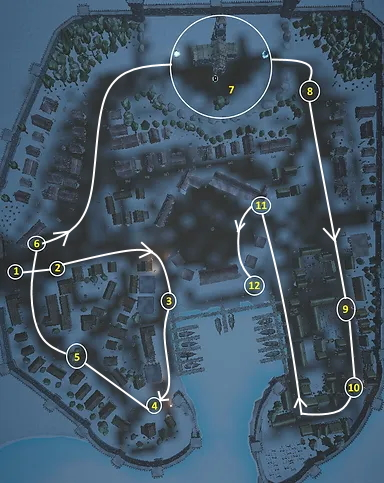
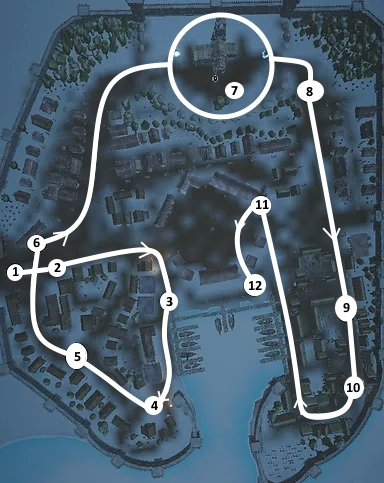
asd

diff --git a/P10.html b/P10.html
@@ -46,9 +46,9 @@
             <div> <h2 style="font-size: 30px;" > Requim of Ragnarock  </h2>  
                 <h3 style="font-size: 25px;"> A town exploration game, where you need to save trapped spirites and defeat Naglfar to save the world from Ragnarock </h3>  </br>
                 
-                <div style="font-size: 22px; ">
+                <div style="font-size: 21px; ">
                     I made this prototype for my master thesis, the goal was to analysis the players movement patterents through out the city and see if they have developed a good cognitive map over the level.<br> 
-                    Two towns was designed based on two ecological models: The sector model and the multiple nuclie model. Only the sector model will be shown. <br>
+                    Two towns was designed based on two ecological models: The sector model and the multiple nuclie model. Due to simplicity only the sector model will be shown. <br>
                 </br>
                     Requiem of Ragnarock is an exploration game that prioritizes seamless navigation and encourages players to build and explore their cognitive map. <br>
                     I worked on the Level, Quest Game design and the implementaion. <br> </br>
@@ -118,39 +118,39 @@
             </div>
             <div class="pillar-desc" style="width: 175%; min-height: fit-content; " > 
                 <h2 style="padding-left: 8%; font-size: 35px; padding-bottom: 5%;">Design pillers </h2>
-                As the main goal of this project was to analysis the players movement patterns. 
-                As the main goal of the project was to findout how people would solve problems in a game and in a linear vs open quest apporch. <br>
-                The player should not feel stress which could resolve in a high cognitive load from other than solving the problems. <br>
-                The problems can be weird allowing for a weird comment about the problem to the player, to gain a cheap grin from them, since their motivation to participate in the test is important, as it is within group test. 
+                The town is designed to prioritize seamless navigation and encourage players to build and explore their cognitive map of the town. <br>
+                By emphasizing the importance of accessible navigation, we aim to create an intuitive and enjoyable experience for players.
+                <br> The goal of the project is to explore the impact of different wayfinding techniques on the player's cognitive map of the town.
+                
             </div>
             <div class="fill-r"></div>
         </div>
 
         <div id="Level" class="game-content" style=" padding-bottom: 75px;">
             <div class="fill">  </div>
-            <div class="title" style="padding-top: 1.25%; padding-left: 20px;"><h1>Level Overview</h1> </div>
+            <div class="title" style="padding-top: 1.25%; padding-left: 20px;"><h1>Town Overview</h1> </div>
             <div class="fill-r">  </div>
 
             <div class="fill"> </div>
             <div class="imgContainer">
-                <img   src="http://wrongsizeglass.github.io/Img/tp/tp lvl1.jpg" style="width: 98%; height: 300px;  margin: 2px;" >
+                <img   src="http://wrongsizeglass.github.io/Img/rr/sector layout.webp" style="width: 98%; height: 300px;  margin: 2px;" >
             </div>
             <div class="imgContainer">
-                <img   src="http://wrongsizeglass.github.io/Img/tp/tp lvl2 top.jpg" style="width: 98%; height: 300px;margin: 2px; " >
+                <img   src="http://wrongsizeglass.github.io/Img/rr/Sector quest.jpg" style="width: 98%; height: 300px; margin: 2px; " >
             </div>
             <div class="imgContainer-r">
-                <img   src="http://wrongsizeglass.github.io/Img/tp/tp lvl3.jpg" style="width: 98%; height: 300px; margin: 2px; " >
+                <img src="http://wrongsizeglass.github.io/Img/rr/Sector Harbor.jpg" style="width: 98%; height: 150px; margin: 1px;" > 
+                <img src="http://wrongsizeglass.github.io/Img/rr/SectorChurch.jpg" style="width: 98%; height: 150px; margin: 1px;" > 
+               
             </div>
             <div class="fill-r"> </div>
 
             <div class="fill"> </div>
             <div class="text-left" style="padding: 10px;"> 
                 <section>
-                    The goal of this level was to teach the player how the movement and running jump mechanics worked, in order to complete this level. <br>
-                    The main obsticals in this level was the height of objects and spaces between the objects. <br>
-                    Player needed to collect all the doughnuts. <br> 
-                    Blue lines shows easy jumps, Orange lines shows harder jumps where running jump is needed.  <br>
-                    <h4 style="padding-top: 5%;"> Primary guiding element: <br> - Collectable breadcrumbs </h4>
+                    This is an overview of the entire town, where the zones are marked based on the ecological model: the "Sector model" it was designed around.
+                    It is a harbour town; thus, most traffic and income come from various trades. The buildings close to the church are the more prosperous housing; the bottom left is middle-income housing, and the bottom right a low-income housing.
+                    <h4 style="padding-top: 5%; margin-right: 5%;"> The town's primary navigational aids are based on <br> The Lynchian elements </br> </h4>
                 </section>
             </div>
             <div class="text " style="padding: 10px;">       
